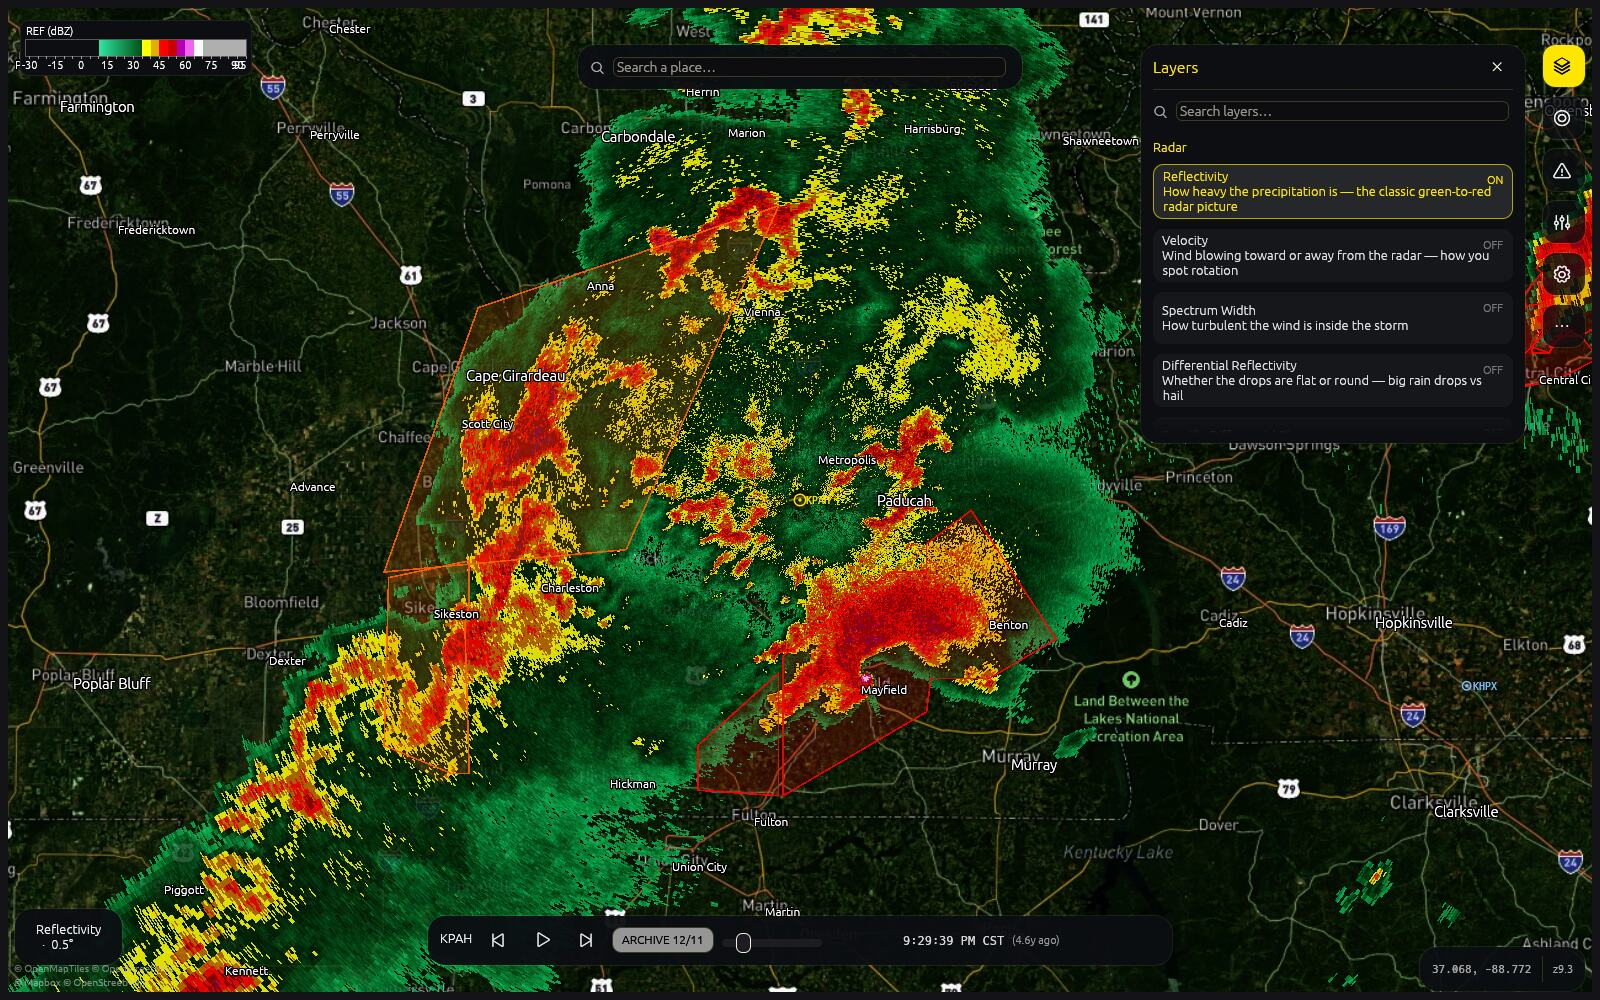
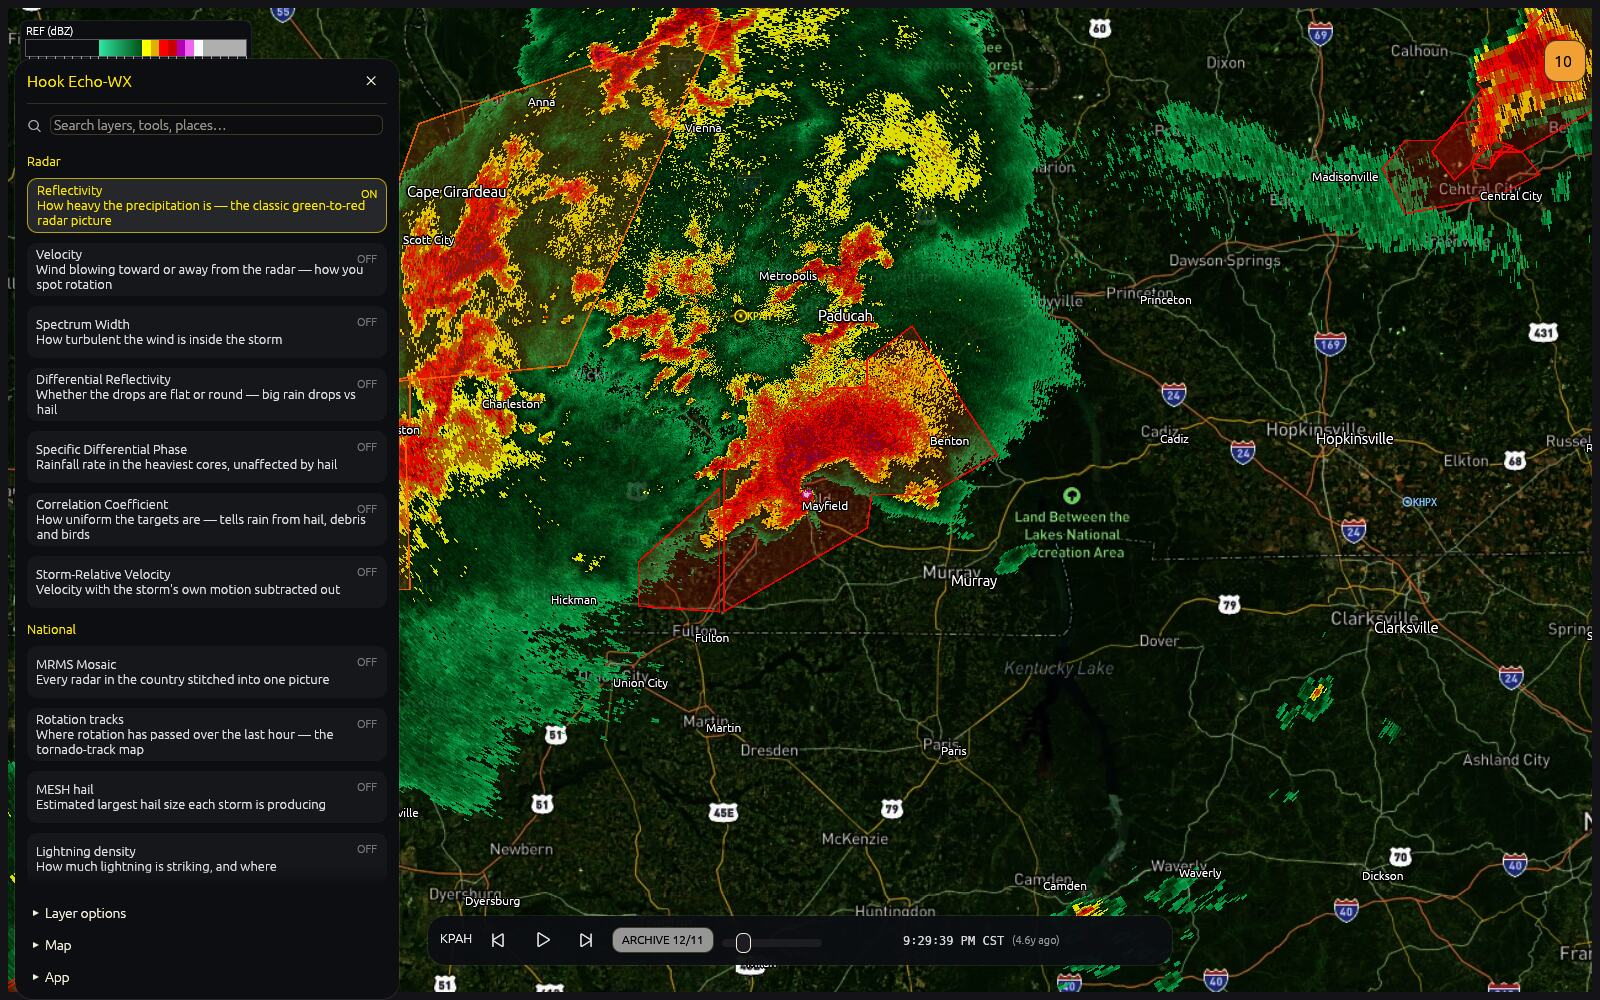
docs: reshoot the archive screenshots and rewrite the interface section
Every shot in the README still showed the control column, the More popup and
the search pill, all of which R11 deleted. The archive set is regenerated
from the same historic events through scripts/shots/shoot.sh, so it now shows
the drawer, the bell, and the product pill's Options disclosure.

The interface section is rewritten around the four things that are left
(hamburger, bell, product pill, timeline pill), the Android paragraph says
the drawer is literally the desktop drawer, and the feature list picks up the
draw tool and the FAA webcams.

shoot.sh's quality ladder gets two more rungs: alltilts is four satellite
panes at once and bottomed out at 423K, over the 400K budget its own check
enforces.

diff --git a/README.md b/README.md
@@ -40,38 +40,43 @@ same five artifacts, if you want the newest work without waiting for a tag.
 First launch opens a setup wizard: pick your home radar site, a theme (13 built
 in), and how warnings should reach you (chime and/or [ntfy.sh](https://ntfy.sh)
 push to your phone). After that, three one-time callouts point at the controls
-you'll actually use. Re-run the wizard anytime from **⋯ More → Setup wizard**.
+you'll actually use. Re-run the wizard anytime from the drawer's **App → Setup wizard**.
 
 ## The interface
 
 Hook Echo-WX is a map with a few floating controls over it — no menu bar, no
 docked toolbar, nothing between you and the radar:
 
+- **Top-left** is the hamburger. It opens the one drawer that holds everything:
+  every product, layer, window and tool, searchable and described in plain
+  English, plus the layer options, the map settings and the app's own commands.
+  `Ctrl+K` opens it typing-ready, and Enter runs the top match.
+- **Top-right** is the alert bell, badged with how many alerts cover your view.
 - **Bottom-left** names the product you're looking at. Click it to switch
-  products or tilts; each one says in plain English what it shows.
+  products or tilts; each one says in plain English what it shows, and its
+  Options disclosure holds the expert knobs for that product.
 - **Bottom-center** is the timeline: site, clock, play, scrub, and a LIVE badge
-  that snaps back to the newest scan.
-- **Right edge**: Layers, radar Site, Alerts, Advanced toolbox, Settings, and
-  **⋯ More**.
-- **Top-center** searches for a place. `Ctrl+K` searches every product, layer,
-  window and tool in the app — one list, described in plain English.
+  that snaps back to the newest scan. Right-click the badge for the archive day,
+  loop and playback speed.
 
-| Pick a product | Find any layer |
+That's the whole of it. Searching for a place is the same box — type a name and
+take the **Fly to** row at the bottom of the results.
+
+| Pick a product | One drawer for everything |
 |---|---|
-| ![The product picker open over the Joplin supercell](docs/shots/products.jpg) | ![The Layers panel open over the Mayfield supercell](docs/shots/layers.jpg) |
+| ![The product picker open over the Joplin supercell](docs/shots/products.jpg) | ![The drawer open over the Mayfield supercell](docs/shots/layers.jpg) |
 | <sub>Joplin, MO — 22 May 2011</sub> | <sub>Mayfield, KY — 11 Dec 2021</sub> |
 
 Radar times read in **the selected radar's local time**, not Zulu — a KEPZ pane
 shows MDT while a KTLX pane shows CDT, side by side. Settings → Units puts it
 back to UTC if you'd rather work in Zulu.
 
-Every expert control is still there. The Advanced toolbox (`F7`) docks a panel
-with the site, the basemap, the product and tilt, the same searchable layer list,
-and a Layer Options section that shows a layer's settings only once that layer is
-on — so the forecast-hour slider appears when you turn on future radar, and stays
-out of the way when you haven't.
+Every expert control is still there, in the drawer's **Layer options** section,
+which shows a layer's settings only once that layer is on — so the forecast-hour
+slider appears when you turn on future radar, and stays out of the way when you
+haven't.
 
-Search a place in the top bar and it flies there, with a **Save marker** button
+Search a place in the drawer and it flies there, with a **Save marker** button
 if you want to keep it. Markers are what the warning, lightning and rain-arrival
 alerts watch. Tap one on the map to rename or remove it.
 
@@ -240,13 +245,15 @@ layer draws its own scale and units.
   warnings (`F9`).
 - Click anywhere for historical tornado tracks near that point (SPC 1950–2022)
   with an EF-scale histogram.
+- Draw on the map freehand to circle the storm you're talking about, and look
+  through FAA airport webcams to see what the sky actually looks like.
 - Multi-pane layouts, placefiles with icon sheets and a layer manager, a sensor
   dashboard, range rings, 13 themes, and tray-based background alerting.
 
 On Android the same app wears a touch-first skin: a five-slot labeled dock
-(Play · Layers · Products · Site · More), slide-up sheets, a navigation drawer
-built from the same described action list as the desktop Layers panel, and
-native GPS for chase mode.
+(Play · Layers · Products · Site · More), slide-up sheets, and a navigation
+drawer that is the desktop drawer — same described action list, same layer
+options, same app rows — plus native GPS for chase mode.
 
 ## Repository layout
 
